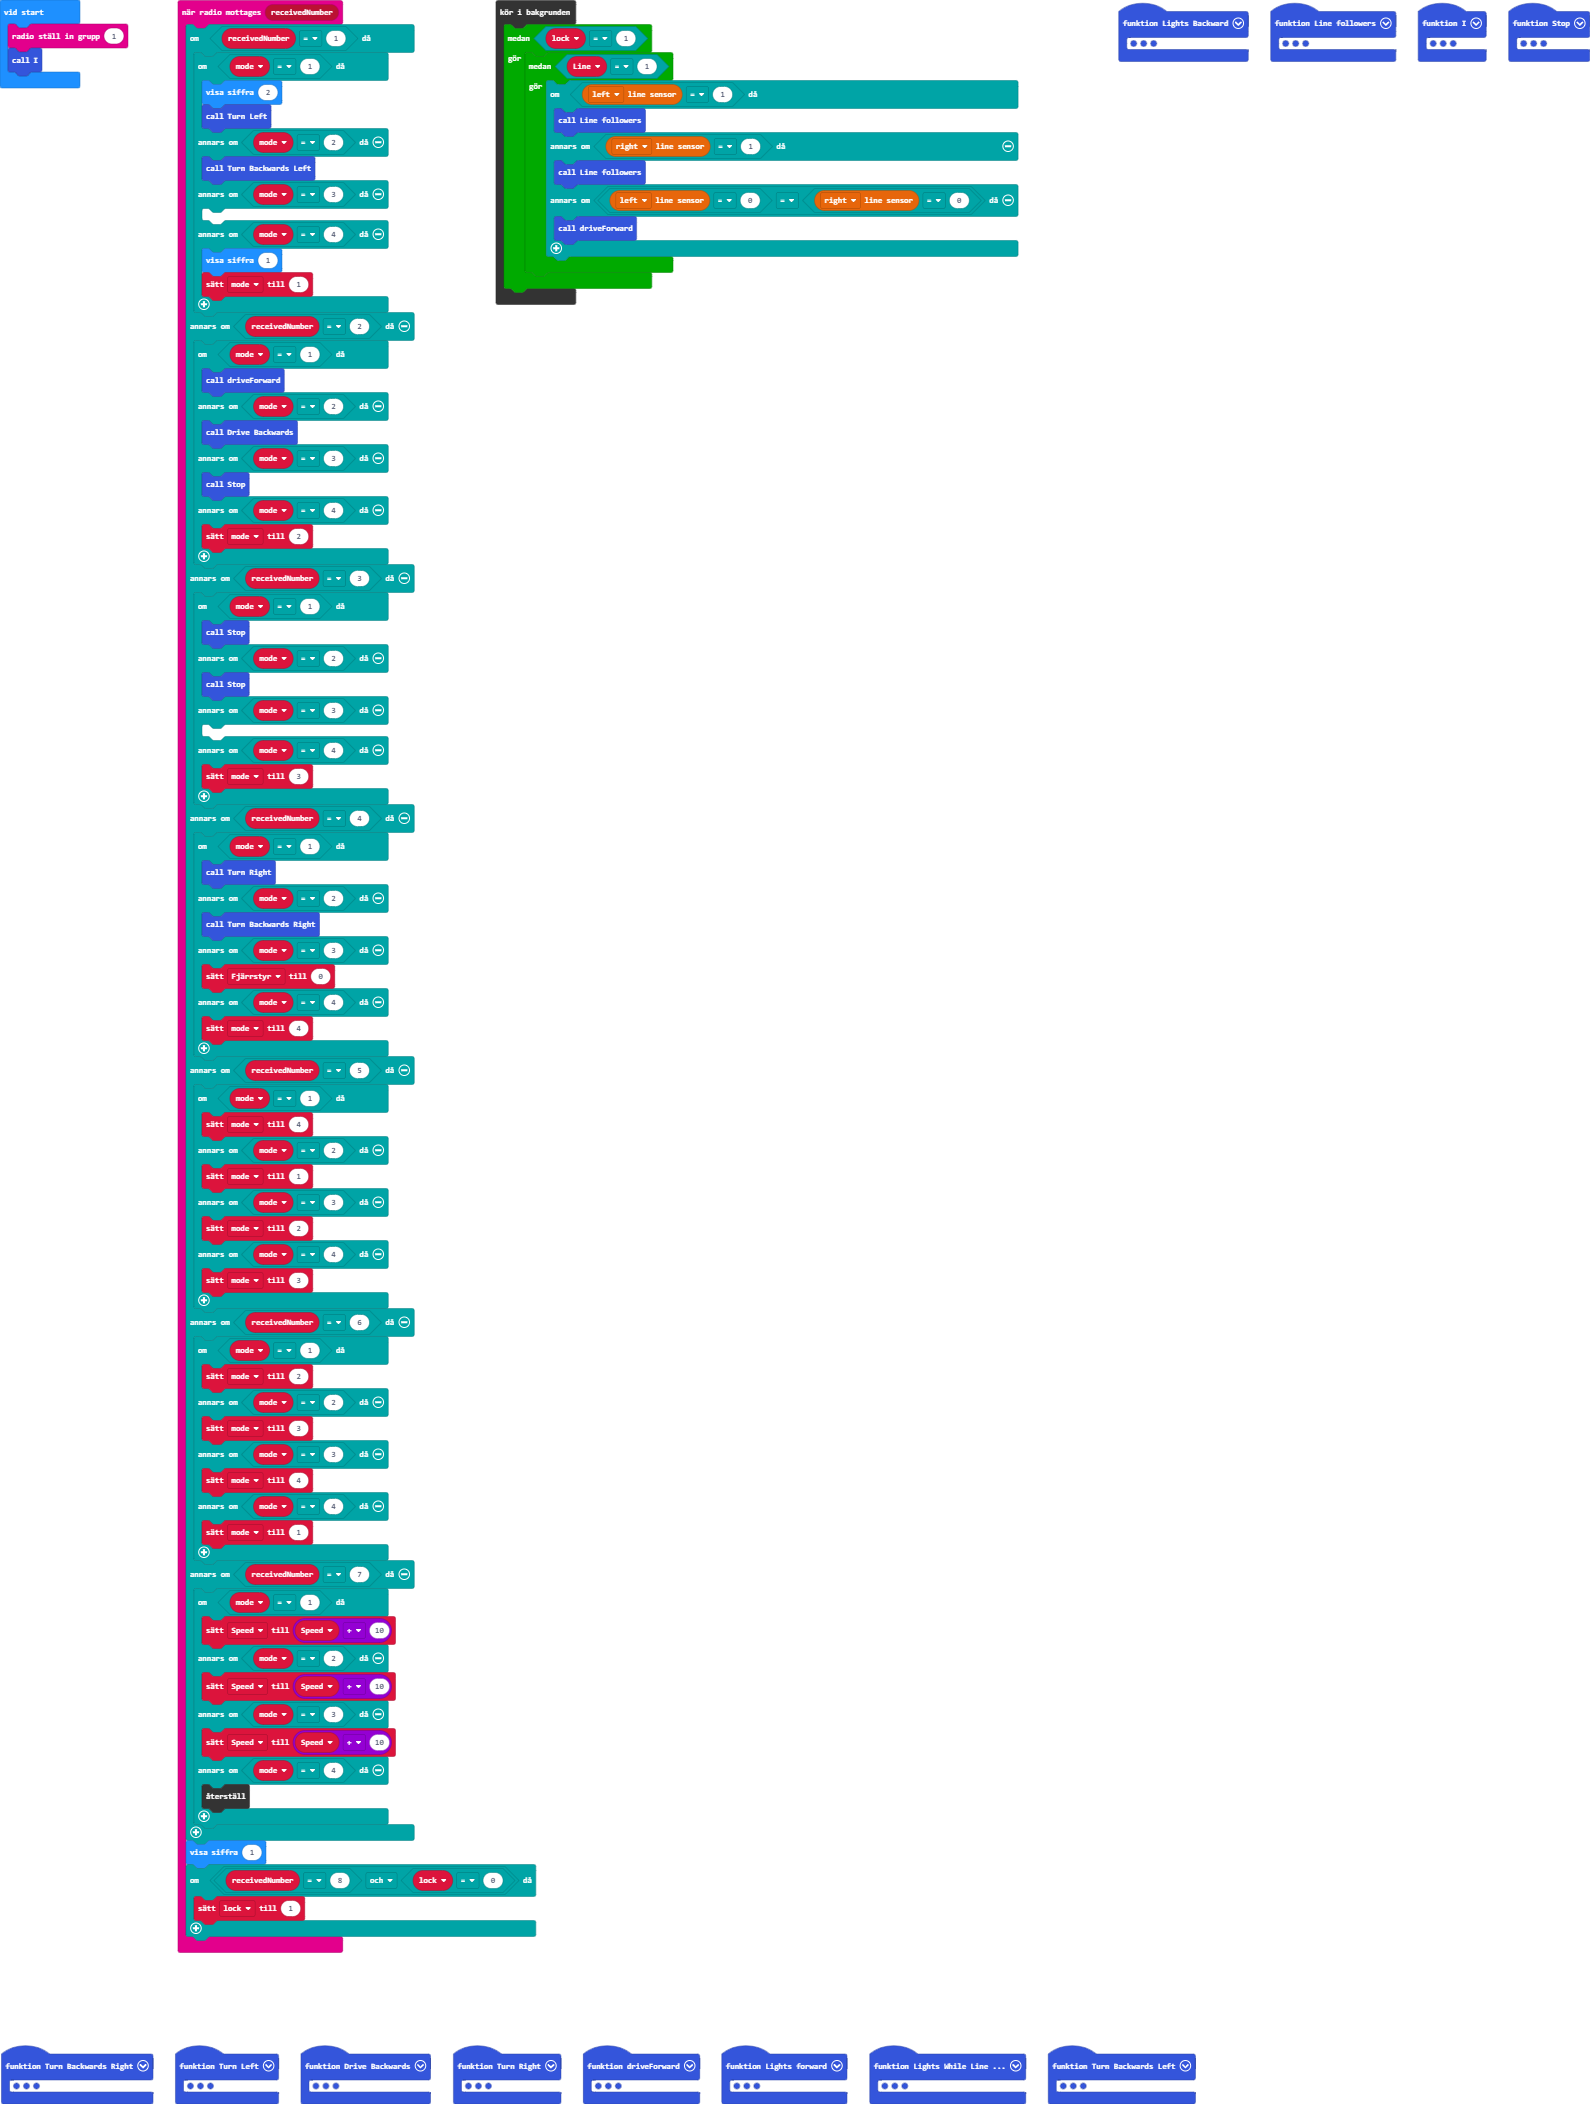
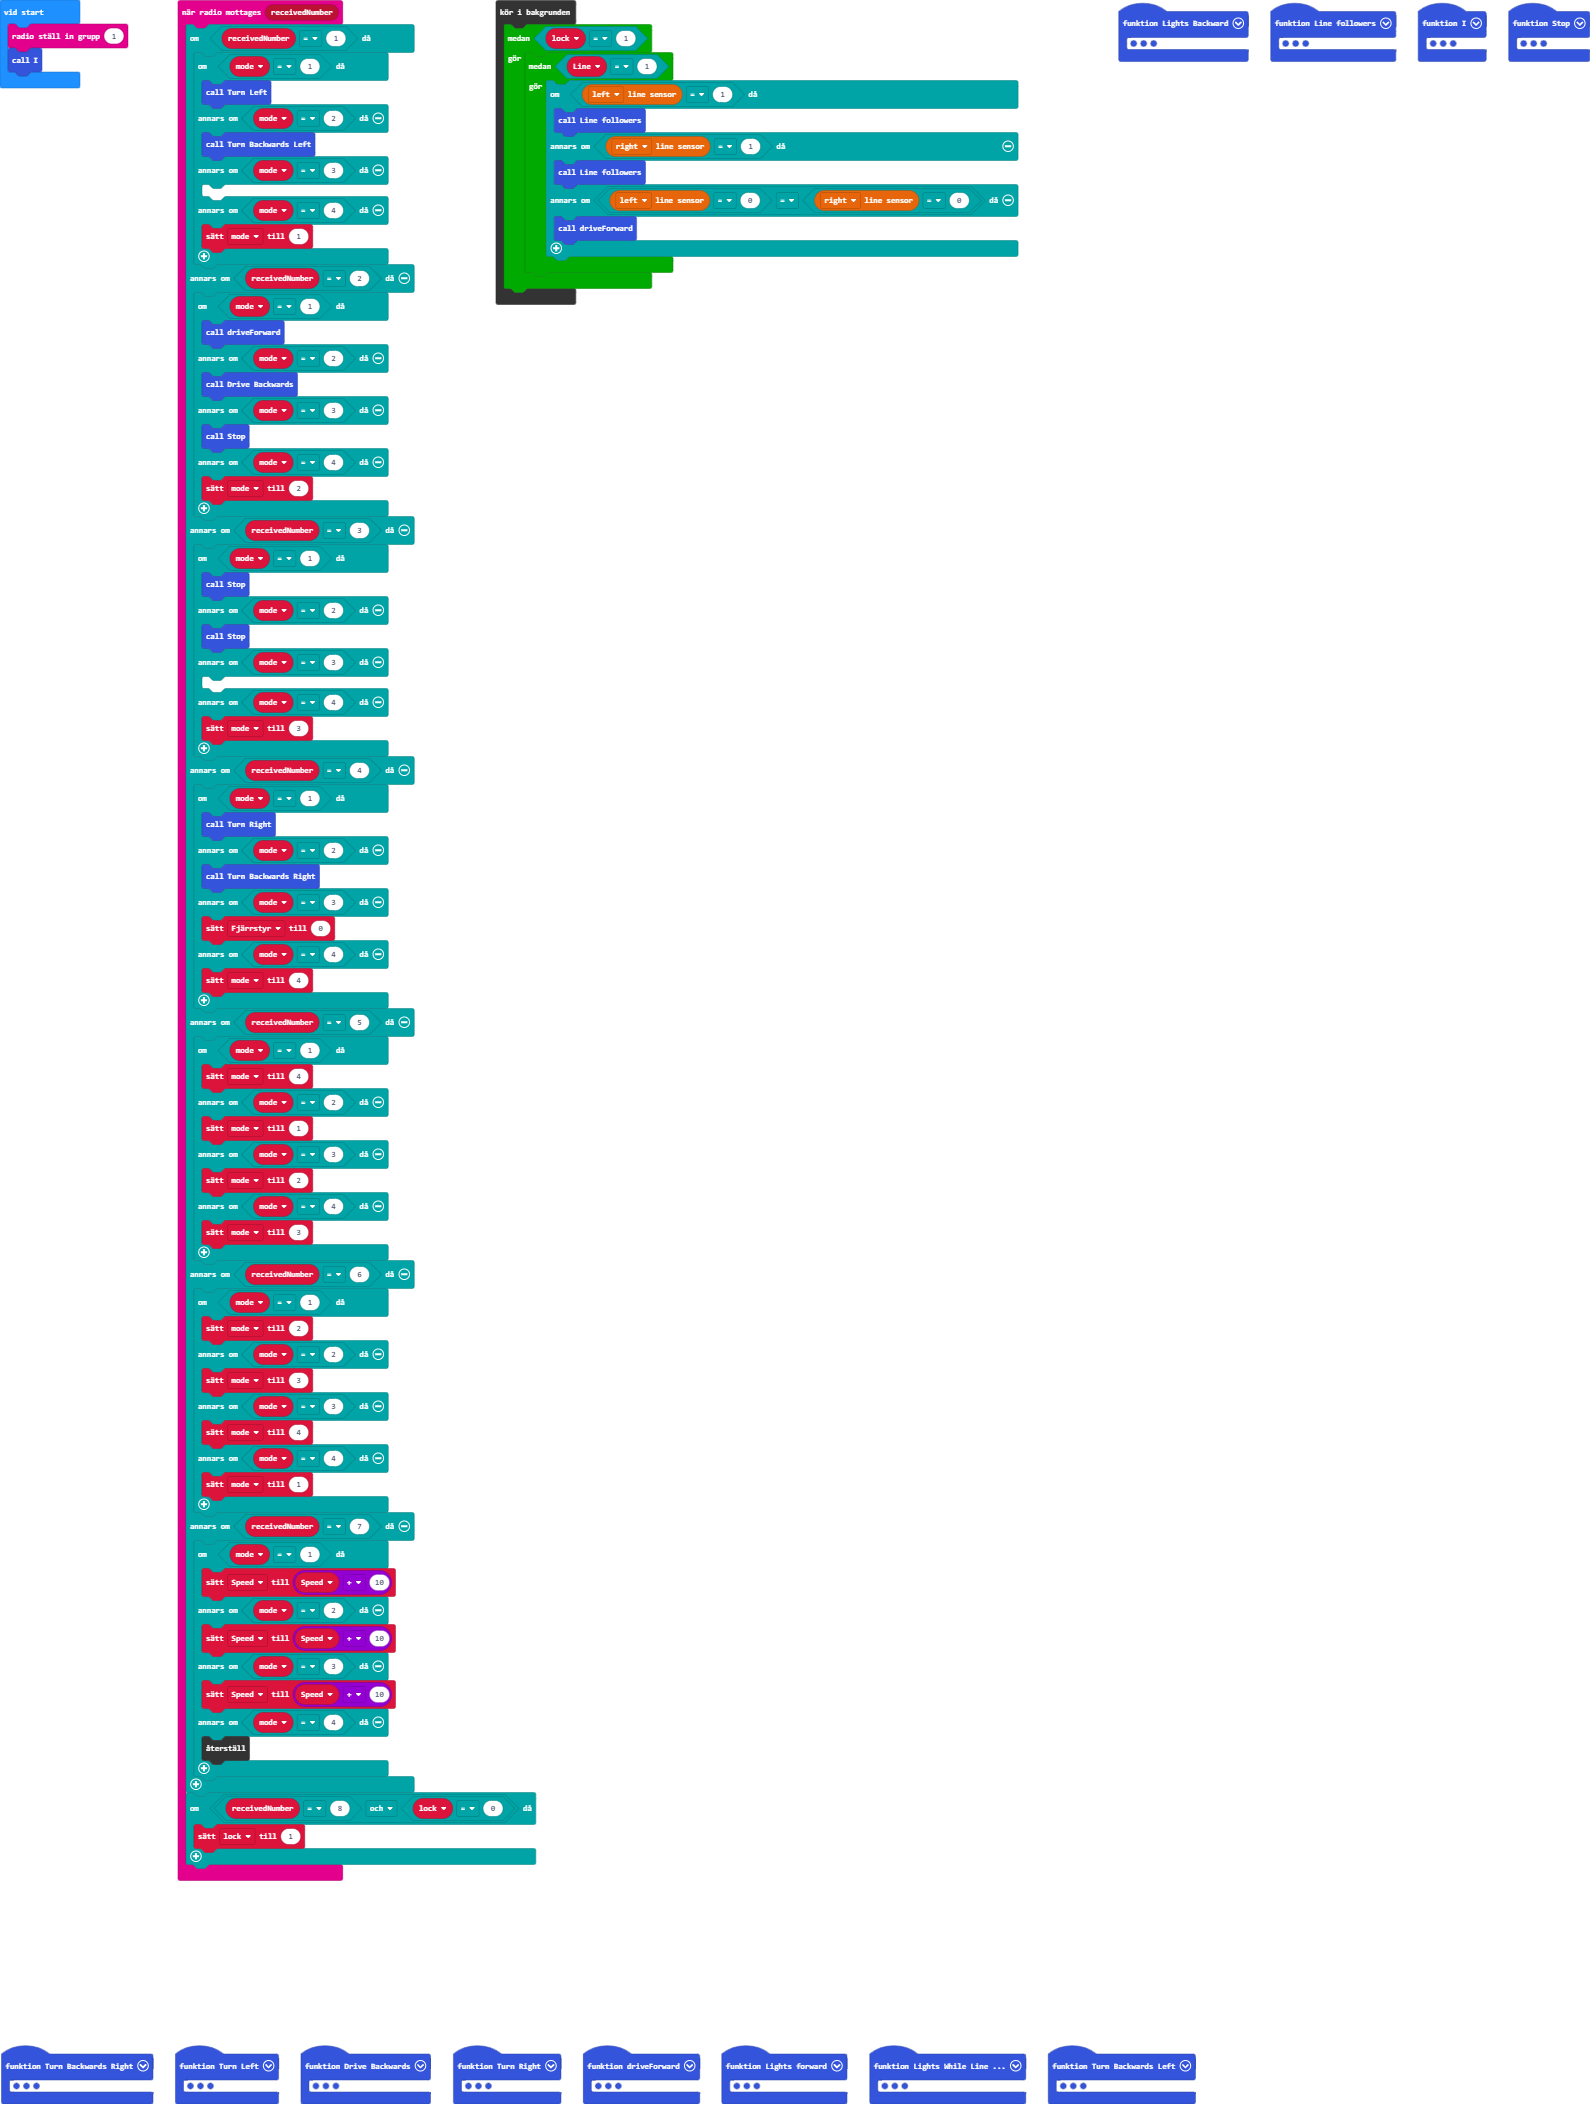
Update main.blocks, main.ts

Changed region(s): [[0.0925, 0.0309, 0.339, 0.9268]]

diff --git a/main.ts b/main.ts
@@ -46,14 +46,12 @@ function Turn_Backwards_Right () {
 radio.onReceivedNumber(function (receivedNumber) {
     if (receivedNumber == 1) {
         if (mode == 1) {
-            basic.showNumber(2)
             Turn_Left()
         } else if (mode == 2) {
             Turn_Backwards_Left()
         } else if (mode == 3) {
         	
         } else if (mode == 4) {
-            basic.showNumber(1)
             mode = 1
         }
     } else if (receivedNumber == 2) {
@@ -117,63 +115,62 @@ radio.onReceivedNumber(function (receivedNumber) {
             control.reset()
         }
     }
-    basic.showNumber(1)
     if (receivedNumber == 8 && lock == 0) {
         lock = 1
     }
 })
 function Lights_Backward () {
     for (let index = 0; index < 2; index++) {
-        bitbot.setPixelColor(5, 0xFF0000)
-        bitbot.setPixelColor(11, 0xFF0000)
+        bitbot.setPixelColor(5, 0x18E600)
+        bitbot.setPixelColor(11, 0x18E600)
         basic.pause(200)
         bitbot.ledClear()
-        bitbot.setPixelColor(4, 0xFF0000)
-        bitbot.setPixelColor(10, 0xFF0000)
+        bitbot.setPixelColor(4, 0x18E600)
+        bitbot.setPixelColor(10, 0x18E600)
         basic.pause(200)
         bitbot.ledClear()
-        bitbot.setPixelColor(3, 0xFF0000)
-        bitbot.setPixelColor(9, 0xFF0000)
+        bitbot.setPixelColor(3, 0x18E600)
+        bitbot.setPixelColor(9, 0x18E600)
         basic.pause(200)
         bitbot.ledClear()
-        bitbot.setPixelColor(2, 0xFF0000)
-        bitbot.setPixelColor(8, 0xFF0000)
+        bitbot.setPixelColor(2, 0x18E600)
+        bitbot.setPixelColor(8, 0x18E600)
         basic.pause(200)
         bitbot.ledClear()
-        bitbot.setPixelColor(1, 0xFF0000)
-        bitbot.setPixelColor(7, 0xFF0000)
+        bitbot.setPixelColor(1, 0x18E600)
+        bitbot.setPixelColor(7, 0x18E600)
         basic.pause(200)
         bitbot.ledClear()
-        bitbot.setPixelColor(0, 0xFF0000)
-        bitbot.setPixelColor(6, 0xFF0000)
+        bitbot.setPixelColor(0, 0x18E600)
+        bitbot.setPixelColor(6, 0x18E600)
         basic.pause(200)
         bitbot.ledClear()
     }
 }
 function Lights_forward () {
     for (let index = 0; index < 2; index++) {
-        bitbot.setPixelColor(0, 0xFF0000)
-        bitbot.setPixelColor(6, 0xFF0000)
+        bitbot.setPixelColor(0, 0x18E600)
+        bitbot.setPixelColor(6, 0x18E600)
         basic.pause(200)
         bitbot.ledClear()
-        bitbot.setPixelColor(1, 0xFF0000)
-        bitbot.setPixelColor(7, 0xFF0000)
+        bitbot.setPixelColor(1, 0x18E600)
+        bitbot.setPixelColor(7, 0x18E600)
         basic.pause(200)
         bitbot.ledClear()
-        bitbot.setPixelColor(2, 0xFF0000)
-        bitbot.setPixelColor(8, 0xFF0000)
+        bitbot.setPixelColor(2, 0x18E600)
+        bitbot.setPixelColor(8, 0x18E600)
         basic.pause(200)
         bitbot.ledClear()
-        bitbot.setPixelColor(3, 0xFF0000)
-        bitbot.setPixelColor(9, 0xFF0000)
+        bitbot.setPixelColor(3, 0x18E600)
+        bitbot.setPixelColor(9, 0x18E600)
         basic.pause(200)
         bitbot.ledClear()
-        bitbot.setPixelColor(4, 0xFF0000)
-        bitbot.setPixelColor(10, 0xFF0000)
+        bitbot.setPixelColor(4, 0x18E600)
+        bitbot.setPixelColor(10, 0x18E600)
         basic.pause(200)
         bitbot.ledClear()
-        bitbot.setPixelColor(5, 0xFF0000)
-        bitbot.setPixelColor(11, 0xFF0000)
+        bitbot.setPixelColor(5, 0x18E600)
+        bitbot.setPixelColor(11, 0x18E600)
         basic.pause(200)
         bitbot.ledClear()
     }
@@ -192,9 +189,15 @@ function Line_followers () {
     }
 }
 function Turn_Left () {
-    basic.showNumber(3)
     bitbot.stop(BBStopMode.Brake)
     for (let index = 0; index < 2; index++) {
+        basic.showLeds(`
+            . . . . .
+            . # . . .
+            # # # . .
+            . # # . .
+            . . # . .
+            `)
         for (let index = 0; index <= 5; index++) {
             Led = index + 0
             bitbot.setPixelColor(Led, 0xFFC000)
